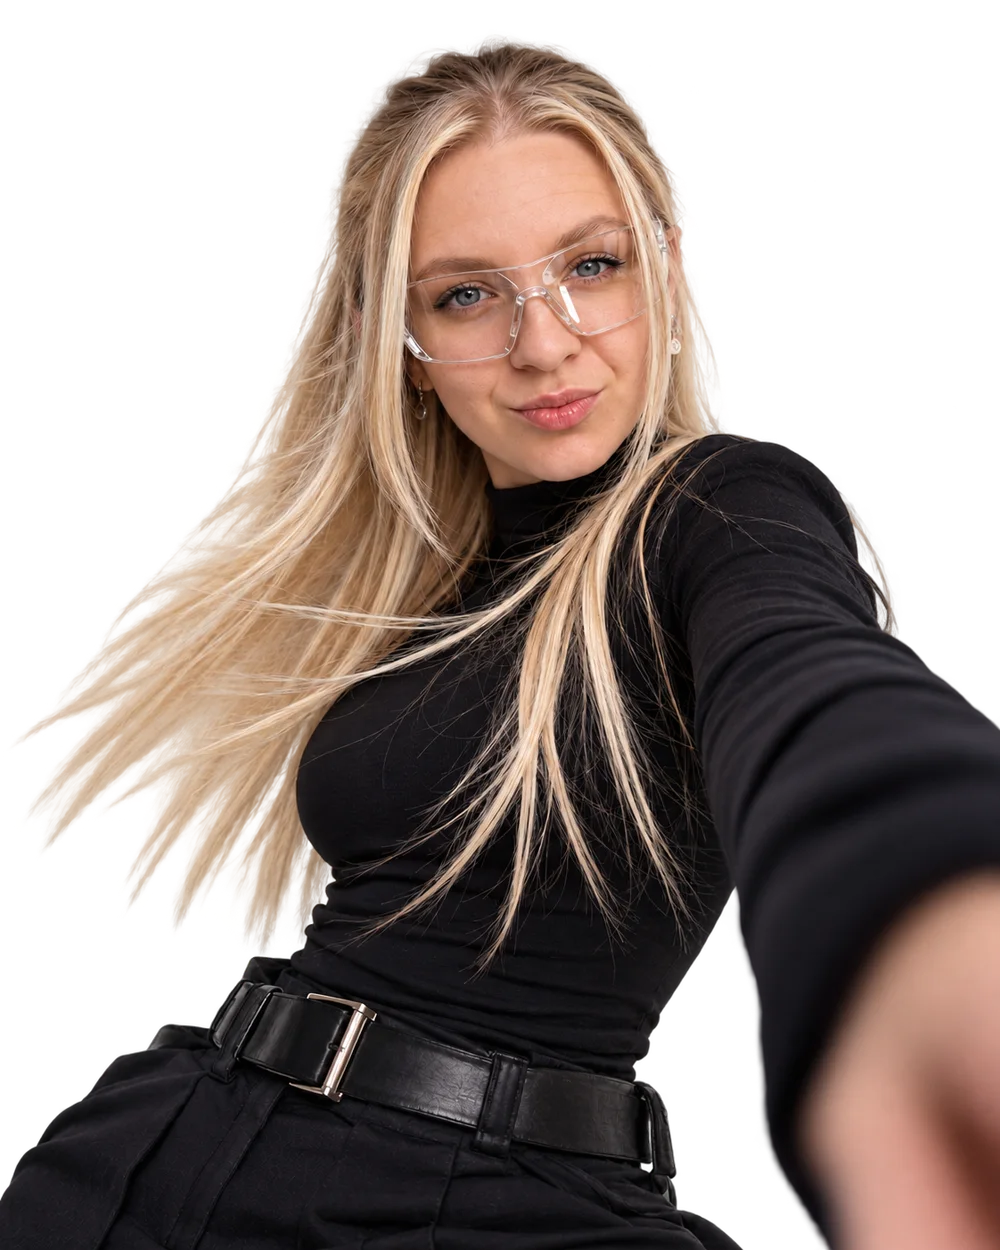
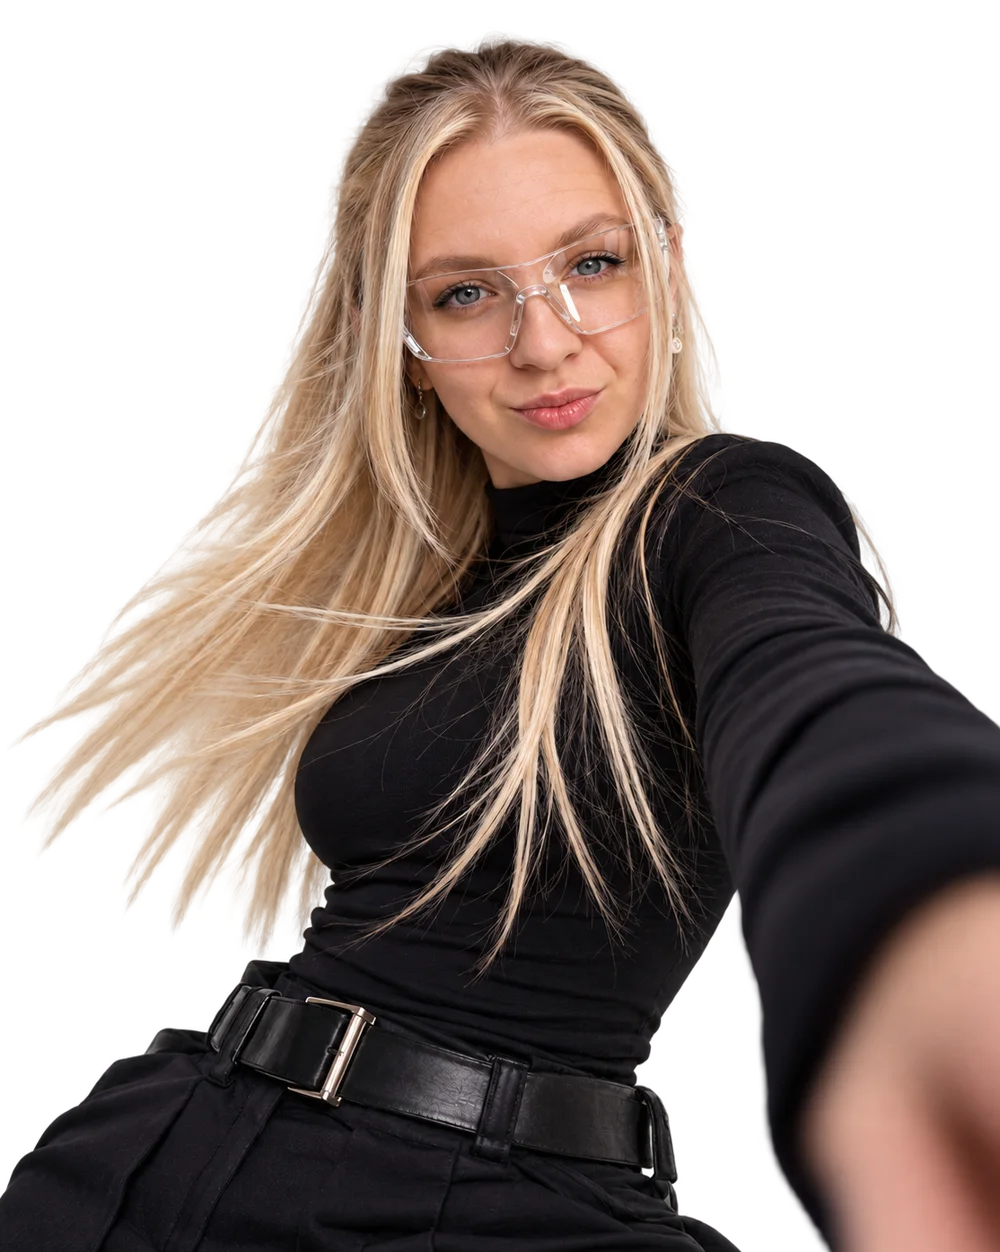
Фідбек: hero без ліній і кілець, більша Ріта, фірмові doodles, відгуки в ряд внахлест, лого без обрізаної корони
- Hero: прибрано зелене півкільце і білу лінію праворуч (підрізано край вирізки), Ріта збільшена — голова майже торкається шапки, волосся/рука/брюки повністю видимі
- «Практика, а не теорія» і паперова нотатка збільшені
- Фірмові doodles: зірочка у шоурілі, підкреслення під заголовком менторки, зірочка у блоці «для кого»
- Менторка: відгуки перенесені під текст — один ряд з 4 карток внахлест, шахматкою з легкими поворотами; на мобільному — гортаний ряд
- Фінал: лого збільшене, viewBox виправлено — корона більше не обрізається

diff --git a/app/globals.css b/app/globals.css
@@ -133,19 +133,6 @@ a {
   overflow: hidden;
 }
 
-.hero::before {
-  content: "";
-  position: absolute;
-  z-index: -1;
-  right: -12rem;
-  top: -8rem;
-  width: 34rem;
-  height: 34rem;
-  border: 1px solid rgba(183, 212, 0, 0.44);
-  border-radius: 50%;
-  box-shadow: 0 0 8rem rgba(183, 212, 0, 0.16);
-}
-
 .hero-copy {
   display: flex;
   flex-direction: column;
@@ -364,6 +351,8 @@ a {
 
 .hero-photo img {
   display: block;
+  transform: scale(1.15);
+  transform-origin: 100% 100%;
 }
 
 /* Рядок старту потоку — під кнопками, з кислотними акцентами */
@@ -481,6 +470,36 @@ a {
   background: var(--ink);
   color: var(--surface);
   padding-bottom: clamp(2rem, 4vw, 3.5rem);
+}
+
+.works-note {
+  display: flex;
+  flex-direction: column;
+  gap: 1rem;
+  align-self: end;
+}
+
+.doodle-works {
+  width: 2.4rem;
+  color: var(--acid);
+  transform: rotate(14deg);
+}
+
+.doodle-formats {
+  display: block;
+  width: 2.2rem;
+  color: var(--brand);
+  margin-bottom: 0.9rem;
+  transform: rotate(-10deg);
+}
+
+.doodle-mentor {
+  display: block;
+  width: clamp(10rem, 14vw, 14rem);
+  height: auto;
+  margin: -0.4rem 0 1.7rem;
+  color: var(--acid);
+  transform: rotate(-2deg);
 }
 
 .works-strip-holder {
@@ -806,14 +825,14 @@ a {
 
 .mentor-section {
   display: grid;
-  grid-template-columns: minmax(0, 1.15fr) minmax(16rem, 0.85fr);
-  gap: clamp(3rem, 7vw, 7rem);
+  grid-template-columns: 1fr;
+  gap: clamp(2rem, 4vw, 3.5rem);
   background: var(--brand);
 }
 
 .mentor-copy {
-  align-self: center;
-  padding: 1rem 0;
+  max-width: 46rem;
+  padding: 0;
 }
 
 .mentor-copy h2 {
@@ -876,11 +895,7 @@ a {
 }
 
 .mentor-reviews {
-  position: relative;
-  z-index: 1;
-  align-self: center;
-  padding-left: clamp(1.5rem, 3vw, 3rem);
-  border-left: 1px solid var(--line);
+  padding: 0;
 }
 
 .mentor-reviews h3 {
@@ -898,9 +913,32 @@ a {
 }
 
 .mentor-review-cards {
-  display: grid;
-  grid-template-columns: repeat(2, 1fr);
-  gap: 1rem;
+  display: flex;
+  align-items: flex-start;
+}
+
+.review-card {
+  width: clamp(12rem, 15.5vw, 15rem);
+  flex: none;
+}
+
+.review-card + .review-card {
+  margin-left: -1.8rem;
+}
+
+.review-card:nth-child(2) {
+  margin-top: 1.5rem;
+  transform: rotate(1.3deg);
+}
+
+.review-card:nth-child(3) {
+  margin-top: 0.4rem;
+  transform: rotate(-1.5deg);
+}
+
+.review-card:nth-child(4) {
+  margin-top: 1.9rem;
+  transform: rotate(1.8deg);
 }
 
 .review-card {
@@ -932,6 +970,7 @@ a {
 .review-card:hover,
 .review-card:focus-visible {
   outline-color: var(--acid);
+  z-index: 3;
 }
 
 .review-card::after {
@@ -1295,13 +1334,6 @@ footer > p {
     gap: 3rem;
   }
 
-  .mentor-reviews {
-    border-left: 0;
-    border-top: 1px solid var(--line);
-    padding-left: 0;
-    padding-top: 2.5rem;
-  }
-
   .price-final {
     grid-template-columns: 1fr;
   }
@@ -1435,7 +1467,37 @@ footer > p {
     font-size: clamp(2.7rem, 12.5vw, 4.6rem);
   }
 
-  .works-strip-holder {
+  .works-note {
+  display: flex;
+  flex-direction: column;
+  gap: 1rem;
+  align-self: end;
+}
+
+.doodle-works {
+  width: 2.4rem;
+  color: var(--acid);
+  transform: rotate(14deg);
+}
+
+.doodle-formats {
+  display: block;
+  width: 2.2rem;
+  color: var(--brand);
+  margin-bottom: 0.9rem;
+  transform: rotate(-10deg);
+}
+
+.doodle-mentor {
+  display: block;
+  width: clamp(10rem, 14vw, 14rem);
+  height: auto;
+  margin: -0.4rem 0 1.7rem;
+  color: var(--acid);
+  transform: rotate(-2deg);
+}
+
+.works-strip-holder {
     padding-bottom: 3rem;
   }
 
@@ -1468,6 +1530,22 @@ footer > p {
   .faq-section,
   .price-section {
     grid-template-columns: 1fr;
+  }
+
+  .mentor-review-cards {
+    display: flex;
+    overflow-x: auto;
+    overscroll-behavior-x: contain;
+    scrollbar-width: none;
+    padding-bottom: 0.6rem;
+  }
+
+  .mentor-review-cards::-webkit-scrollbar {
+    display: none;
+  }
+
+  .review-card + .review-card {
+    margin-left: 0.8rem;
   }
 
     .faq-section {

diff --git a/app/[locale]/page.tsx b/app/[locale]/page.tsx
@@ -45,7 +45,7 @@ export function generateStaticParams() {
 function FinalLogo() {
   const textStyle = { fontFamily: "var(--font-display), Impact, sans-serif" } as const;
   return (
-    <svg className="final-logo" viewBox="0 0 380 270" role="img" aria-label="NEW CREATOR">
+    <svg className="final-logo" viewBox="0 -45 380 320" role="img" aria-label="NEW CREATOR">
       <g transform="rotate(-6 190 135)">
         <g transform="translate(218 2) scale(0.6)" fill="none" stroke="#1646c8" strokeWidth="14" strokeLinecap="round" strokeLinejoin="round">
           <path d="M10 112 L34 40 L74 88 L102 8 L132 86 L172 30 L192 108" />
@@ -58,6 +58,24 @@ function FinalLogo() {
           <path d="M270 6 L306 14 L280 38" />
         </g>
       </g>
+    </svg>
+  );
+}
+
+// Фірмові штуки Ріти: зірочка і рукописне підкреслення
+function StarDoodle({ className }: { className: string }) {
+  return (
+    <svg className={className} viewBox="0 0 40 40" fill="none" aria-hidden="true">
+      <path d="M20 3 V37 M3 20 H37 M7 7 L33 33 M33 7 L7 33" stroke="currentColor" strokeWidth="4.5" strokeLinecap="round" />
+    </svg>
+  );
+}
+
+function UnderlineDoodle({ className }: { className: string }) {
+  return (
+    <svg className={className} viewBox="0 0 230 28" fill="none" aria-hidden="true">
+      <path d="M6 15 C64 7 158 7 224 13" stroke="currentColor" strokeWidth="6" strokeLinecap="round" />
+      <path d="M14 24 C70 18 160 16 200 20" stroke="currentColor" strokeWidth="5" strokeLinecap="round" />
     </svg>
   );
 }
@@ -153,7 +171,10 @@ export default async function Home({ params }: PageProps) {
           <div className="section-heading works-heading">
             <p className="kicker">{t.strip.kicker}</p>
             <h2>{t.strip.title}</h2>
-            <p className="lead">{t.strip.hint}</p>
+            <div className="works-note">
+              <StarDoodle className="doodle doodle-works" />
+              <p className="lead">{t.strip.hint}</p>
+            </div>
           </div>
         </section>
         <div className="works-strip-holder">
@@ -173,7 +194,10 @@ export default async function Home({ params }: PageProps) {
           </ul>
           <p className="tools-note">{t.formats.tools}</p>
           <div className="for-who">
-            <p className="kicker">{t.formats.forWhoKicker}</p>
+            <div>
+              <StarDoodle className="doodle doodle-formats" />
+              <p className="kicker">{t.formats.forWhoKicker}</p>
+            </div>
             <ul>
               {t.formats.forWho.map((item) => <li key={item}>{item}<span aria-hidden="true">→</span></li>)}
             </ul>
@@ -196,6 +220,7 @@ export default async function Home({ params }: PageProps) {
           <div className="mentor-copy">
             <p className="kicker">{t.mentor.kicker}</p>
             <h2>{t.mentor.title}</h2>
+            <UnderlineDoodle className="doodle doodle-mentor" />
             {t.mentor.body.map((paragraph) => <p key={paragraph}>{paragraph}</p>)}
             <p className="mentor-steps-title">{t.mentor.stepsTitle}</p>
             <ol className="mentor-steps">
